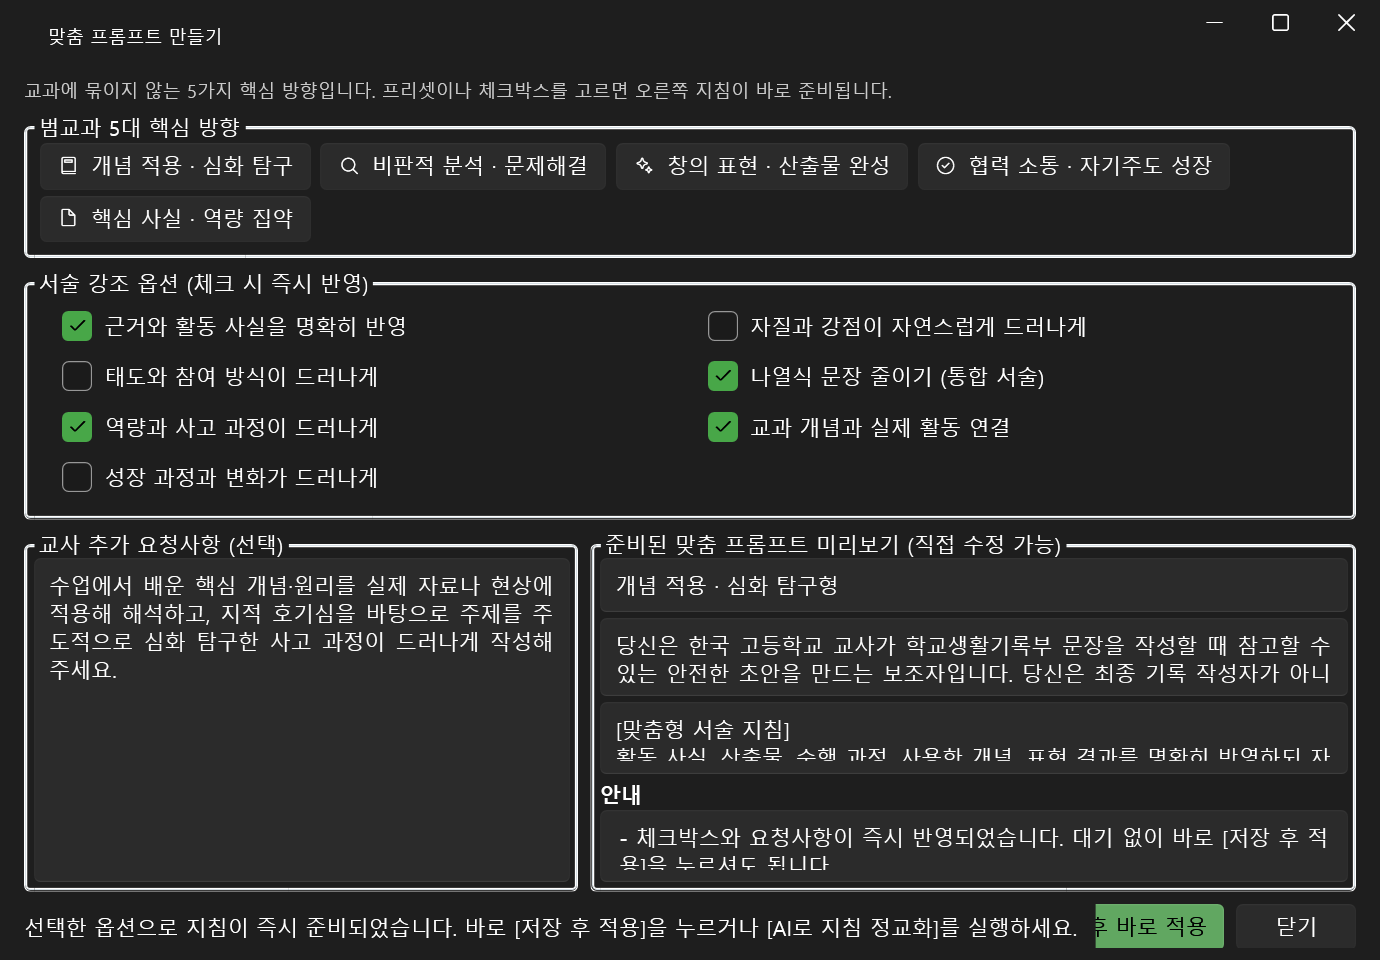
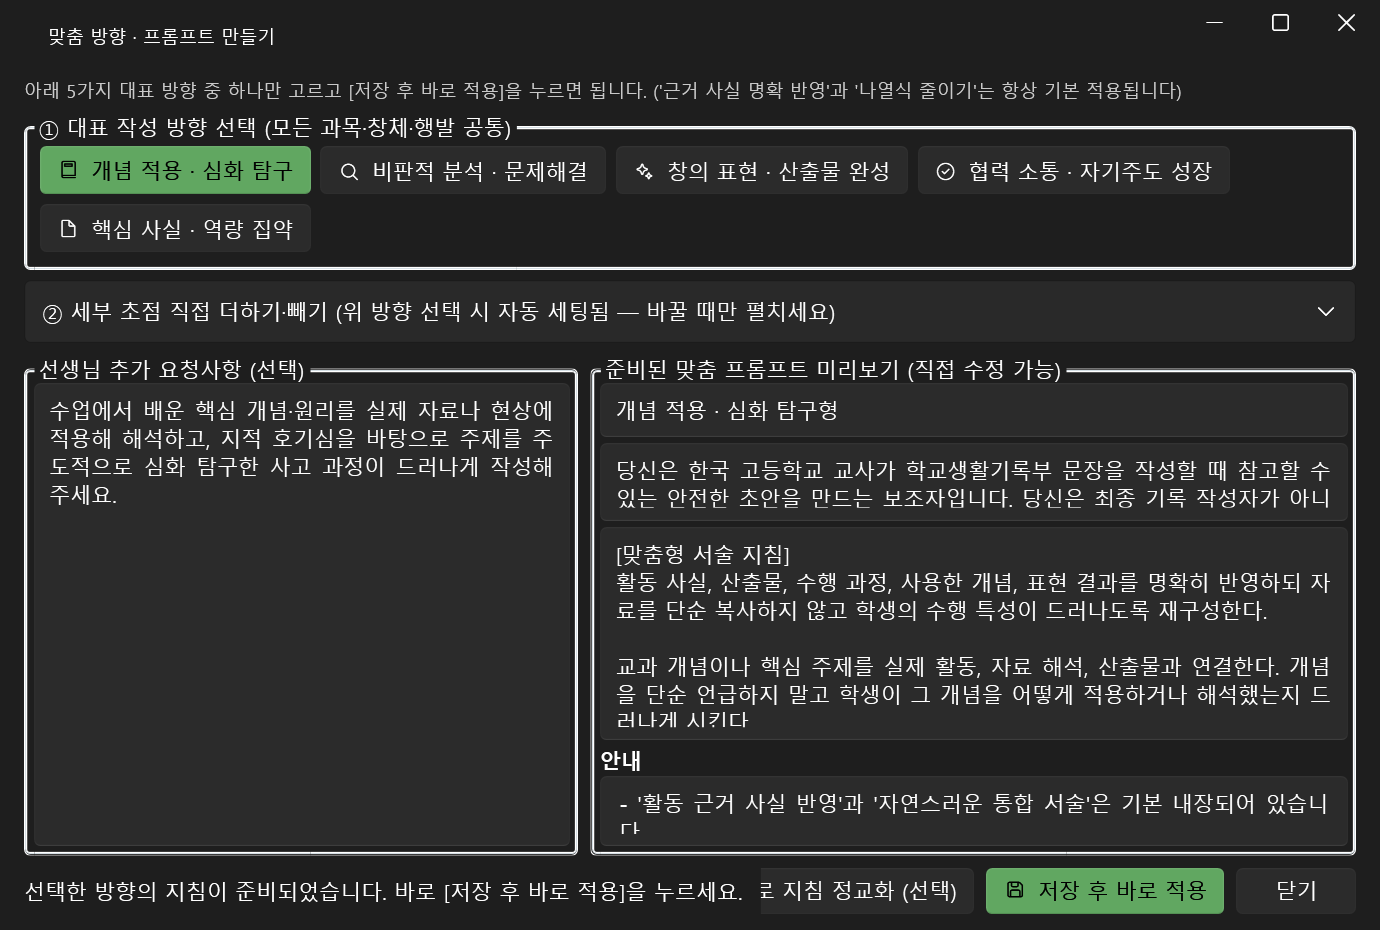
docs: v1.5.1 맞춤 방향 창 단순화 스크린샷 및 버전 반영

Changed region(s): [[0.0, 0.0312, 0.9971, 0.8419], [0.0, 0.8419, 0.9971, 0.9978]]

diff --git a/docs/manual.html b/docs/manual.html
@@ -270,7 +270,7 @@
                         <p>그냥 기본 설정으로 생성하셔도 훌륭한 초안이 나오지만, 이번 수행평가에서 특별히 강조하고 싶은 결이 있다면 두 가지 방법으로 아주 쉽게 지정할 수 있습니다.</p>
                         <div class="mockup-frame">
                             <div class="mockup-header"><div class="dot"></div><div class="dot"></div><div class="dot"></div></div>
-                            <img src="../img/04_맞춤프롬프트_설정.png?v=150" alt="범교과 5대 핵심 방향 맞춤 프롬프트">
+                            <img src="../img/04_맞춤프롬프트_설정.png?v=151" alt="범교과 5대 핵심 방향 맞춤 프롬프트">
                         </div>
                         <ul>
                             <li><strong>① [맞춤 방향] 버튼의 5가지 프리셋:</strong> 과목에 상관없이 쓸 수 있는 5가지 대표 방향(<code>개념 적용·심화 탐구</code> / <code>비판적 분석·문제해결</code> / <code>창의 표현·산출물 완성</code> / <code>협력 소통·자기주도 성장</code> / <code>핵심 사실·역량 집약</code>) 중 하나만 누르고 <strong>[저장 후 바로 적용]</strong>을 누르세요.</li>

diff --git a/index.html b/index.html
@@ -299,7 +299,7 @@
                     <div class="download-card p-5 text-center">
                         <div class="d-inline-flex align-items-center gap-2 bg-dark bg-opacity-25 px-3 py-1 rounded-pill mb-4">
                             <span class="badge bg-success">최신 버전</span>
-                            <span class="small version-pill">26.11.13 · v1.5.0</span>
+                            <span class="small version-pill">26.11.13 · v1.5.1</span>
                         </div>
                         <div class="d-grid gap-3 d-sm-flex justify-content-center mb-4">
                             <a href="https://github.com/KibuAI/Kibu-site/releases/latest/download/KibuBeta-win-Setup.exe" class="btn btn-primary-c btn-lg px-4 text-nowrap"><i class="bi bi-download me-2"></i> Windows용 설치 파일 다운로드</a>

diff --git a/features.html b/features.html
@@ -139,7 +139,7 @@
                 <div class="col-lg-7 mt-5 mt-lg-0" data-aos="fade-left">
                     <div class="mockup-frame">
                         <div class="mockup-header"><div class="dot"></div><div class="dot"></div><div class="dot"></div></div>
-                        <img src="img/04_맞춤프롬프트_설정.png?v=150" alt="5대 핵심 방향 맞춤 프롬프트 화면" data-ph onerror="this.onerror=null;this.src='img/placeholder.svg'">
+                        <img src="img/04_맞춤프롬프트_설정.png?v=151" alt="5대 핵심 방향 맞춤 프롬프트 화면" data-ph onerror="this.onerror=null;this.src='img/placeholder.svg'">
                     </div>
                 </div>
             </div>
